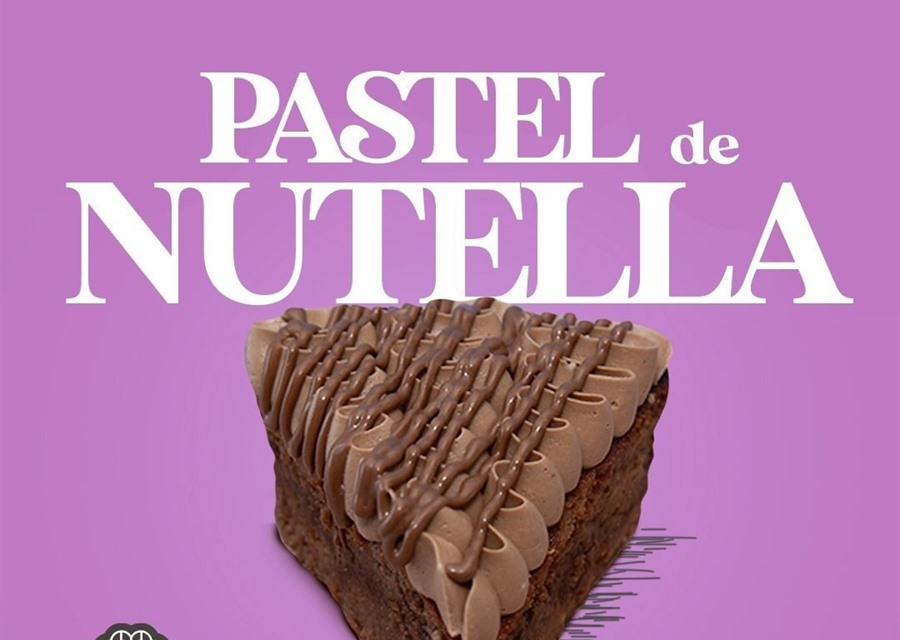
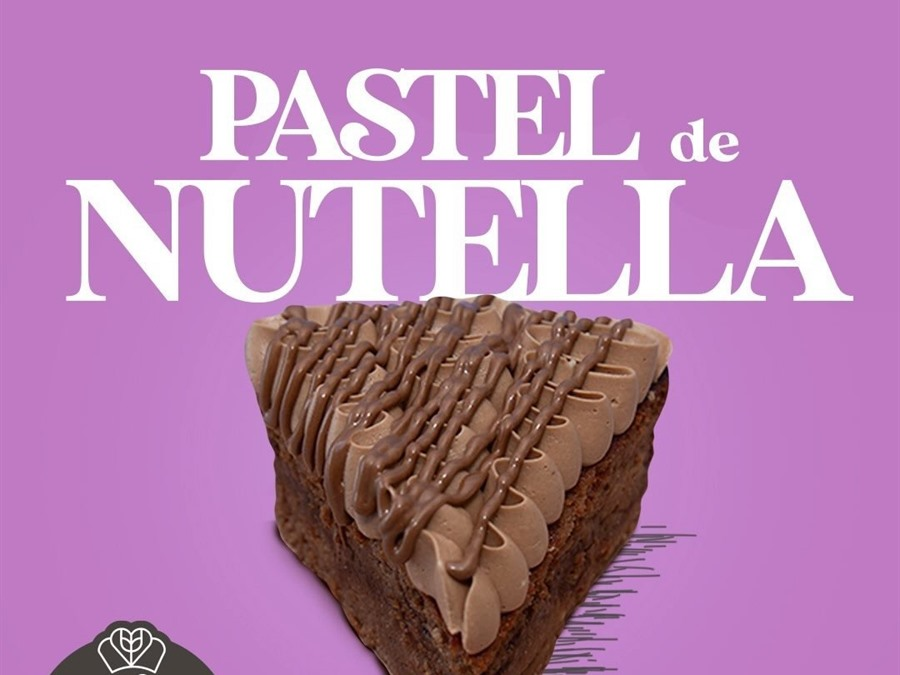
Ajustar encuadre de rebanada Nutella

Changed region(s): [[0.0622, 0.0938, 0.9644, 1.0], [0.0622, 0.9062, 0.2489, 1.0], [0.0622, 0.4375, 0.1244, 0.5]]

diff --git a/public/pande/js/app.js b/public/pande/js/app.js
@@ -1,7 +1,7 @@
 const SCRIPT_URL = "https://script.google.com/macros/s/AKfycbwGxnv1CbQvLTF9fnQwa3kg6aICwHLWM4n05kGT6x5P7Osjt16-BIe2_AXZ0L-5MmR0/exec";
 
 const FRONTEND_KEY = "PANDE_PUBLIC_2026";
-const IMAGE_VERSION = "20260624c";
+const IMAGE_VERSION = "20260624d";
 
 const PRODUCT_IMAGE_OVERRIDES = {
   T09: "./img/panque-de-naranja-cero-azucar.jpg"
